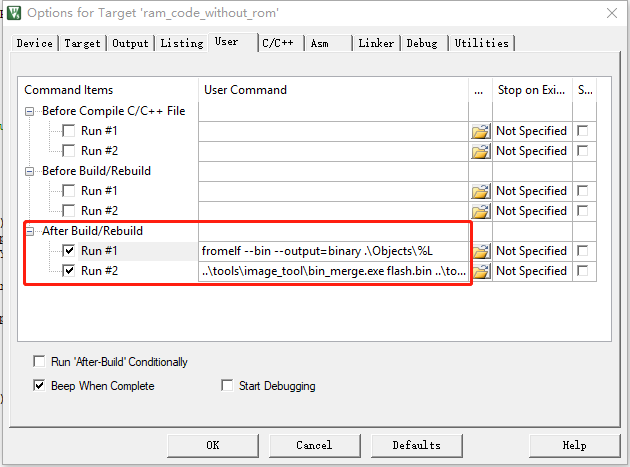
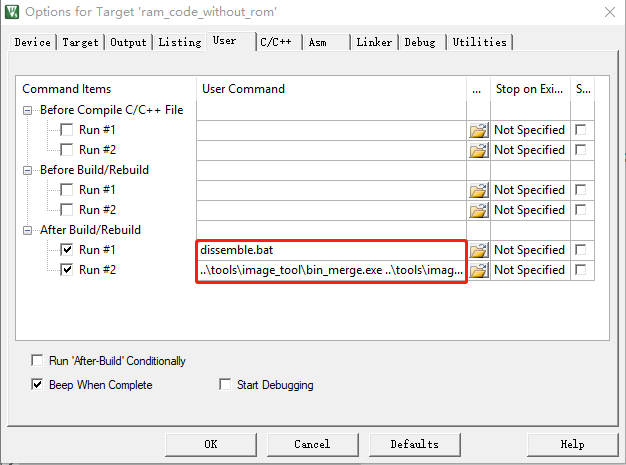
replace bx2400 with bluex in link_script_and_keil_sdk_cfg.rst

diff --git a/getting_started/link_script_and_keil_sdk_cfg.rst b/getting_started/link_script_and_keil_sdk_cfg.rst
@@ -1,7 +1,7 @@
 Link Script & Keil SDK Configuration
 ^^^^^^^^^^^^^^^^^^^^^^^^^^^^^^^^^^^^^^^
 
-在Keil下编译链接BX2400 SDK，需要熟悉Keil下的各项工程配置。
+在Keil下编译链接Apollo SDK，需要熟悉Keil下的各项工程配置。
 
 1.  链接脚本
 
@@ -13,7 +13,7 @@ Link Script & Keil SDK Configuration
 
     .. image:: link_script_and_keil_sdk_cfg_img2.png
 
-    ARM的链接脚本的主要构成是Load Section和Exec Section。考虑一个典型的Flash上运行软件的例子：IC从Flash启动，之后需要要把所有的数据和一部分代码搬移到RAM中（例如Flash驱动，中断向量表，任务调度函数等，没办法放在Flash中），此时IC启动后ARM默认的__main()需要知道代码搬移的起始地址和目的地址，这就是通过链接脚本指定的。起始地址就是Load Section，而目标地址就是Exec Section。 BX2400的链接脚本范例如下:
+    ARM的链接脚本的主要构成是Load Section和Exec Section。考虑一个典型的Flash上运行软件的例子：IC从Flash启动，之后需要要把所有的数据和一部分代码搬移到RAM中（例如Flash驱动，中断向量表，任务调度函数等，没办法放在Flash中），此时IC启动后ARM默认的__main()需要知道代码搬移的起始地址和目的地址，这就是通过链接脚本指定的。起始地址就是Load Section，而目标地址就是Exec Section。 Apollo的链接脚本范例如下:
 
     ..  code:: c
 
@@ -61,7 +61,7 @@ Link Script & Keil SDK Configuration
             }
         }
 
-    这里主要包括3个Load Section，每个Load Section又包含了数目不同的Exec Section。以第一个Load Section为例，LR_RAM1表示Load Section的名字，RAM_BASE表示Load Section的起始地址，ALIGN 0x80则表示起始地址必须是0x80对齐。ISR_VECTOR是第一个Exec Section的名字，+0表示起始地址相对之前的Load Section LR_RAM1的偏移是0，也就是说地址相同。*(RESET, +First)和*(jump_table_area)则表示该Exec Section的两个输入，第一个输入是在汇编里定义的段，具体参考源文件startup_bx2400.s，第二个输入是C源代码里定义的jump_table_area段。第二种很常用，其在C代码中的写法是：
+    这里主要包括3个Load Section，每个Load Section又包含了数目不同的Exec Section。以第一个Load Section为例，LR_RAM1表示Load Section的名字，RAM_BASE表示Load Section的起始地址，ALIGN 0x80则表示起始地址必须是0x80对齐。ISR_VECTOR是第一个Exec Section的名字，+0表示起始地址相对之前的Load Section LR_RAM1的偏移是0，也就是说地址相同。*(RESET, +First)和*(jump_table_area)则表示该Exec Section的两个输入，第一个输入是在汇编里定义的段，具体参考源文件startup_apollo_00.s，第二个输入是C源代码里定义的jump_table_area段。第二种很常用，其在C代码中的写法是：
 
     ..  code:: c
 
@@ -88,7 +88,7 @@ Link Script & Keil SDK Configuration
 
         .. image:: link_script_and_keil_sdk_cfg_img4.png
 
-        关于Group/Files内容，BX2400更新后与图片显示不同，具体以SDK内容为准。
+        关于Group/Files内容，Apollo更新后与图片显示不同，具体以SDK内容为准。
 
     #.  工程管理选项
 
@@ -96,19 +96,19 @@ Link Script & Keil SDK Configuration
 
             .. image:: link_script_and_keil_sdk_cfg_img5.png
 
-            BX2400内的MCU为Cortex-M0+。
+            Apollo内的MCU为Cortex-M0+。
 
         -   Target配置
 
             .. image:: link_script_and_keil_sdk_cfg_img6.png
 
-            Target里主要配置ROM和RAM的地址以及大小。关于RAM中的具体内容，请参考文档Memory Distribution. 另外，BX2400使用MicroLIB，因此相应的选项也需要选中。
+            Target里主要配置ROM和RAM的地址以及大小。关于RAM中的具体内容，请参考文档Memory Distribution. 另外，Apollo使用MicroLIB，因此相应的选项也需要选中。
 
         -   Output选项
 
             .. image:: link_script_and_keil_sdk_cfg_img7.png
 
-            Output选项里，主要配置输出的文件信息。BX2400里的配置，尽可能输出更多的信息方便调试。BX2400里不需要hex文件，用户如果需要可以选择生成。
+            Output选项里，主要配置输出的文件信息。Apollo里的配置，尽可能输出更多的信息方便调试。Apollo里不需要hex文件，用户如果需要可以选择生成。
 
         -   Listing选项
 
@@ -120,13 +120,13 @@ Link Script & Keil SDK Configuration
 
             .. image:: link_script_and_keil_sdk_cfg_img9.png
 
-            User选项里，主要配置了在生成可执行文件后，需要执行的自定义命令，这里主要有2个：#1是使用fromelf命令从axf文件中生成bin文件；#2是利用自定义的bin_merge.exe生成flash.bin文件。用户最终需要生成一个可以烧写入Flash里的bin文件，这个文件就是通过这里的After Build命令生成。
+            User选项里，主要配置了在生成可执行文件后，需要执行的自定义命令，这里主要有2个：#1是一个批处理文件，其内容包括用fromelf命令从axf文件中生成bin文件和反汇编asm文件；#2是利用自定义的bin_merge.exe生成flash.bin文件。用户最终需要生成一个可以烧写入Flash里的bin文件，这个文件就是通过这里的After Build命令生成。
 
         -   C/C++选项
 
             .. image:: link_script_and_keil_sdk_cfg_img10.png
 
-            C/C++选项里，最需要关注的是配置头文件路径。BX2400已经默认配置好需要的路径，用户如果增加了自定义的头文件目录，需要在这里添加到列表中，否则编译时会报错。其余的配置保持默认值即可。
+            C/C++选项里，最需要关注的是配置头文件路径。Apollo已经默认配置好需要的路径，用户如果增加了自定义的头文件目录，需要在这里添加到列表中，否则编译时会报错。其余的配置保持默认值即可。
 
         -   Asm选项
 
@@ -140,13 +140,13 @@ Link Script & Keil SDK Configuration
 
             关于链接脚本的具体内容，可以参考文档Link scripts/Keil SDK Config
 
-            BX2400包含ROM，因此在用户程序链接的时候，需要引用符号表，也就是rom_syms_armcc.txt，这个文件已经包含在工程目录中，用户一般不需要关心。
+            Apollo包含ROM，因此在用户程序链接的时候，需要引用符号表，也就是rom_syms_armcc.txt，这个文件已经包含在工程目录中，用户一般不需要关心。
 
         -   Debug选项
 
             .. image:: link_script_and_keil_sdk_cfg_img12.png
 
-            Debug选项里，左半边面板属于Simulator下的配置选项，用户不需要关心。右侧的选项中，需要注意的是初始化文件。BX2400 SDK里有两个ini文件：debug.ini和debug_flash.ini，分别代表软件代码直接在RAM中调试，和从Flash启动再到跳转到RAM中运行的选项。关于两种调试方式的选择，通常建议如下：
+            Debug选项里，左半边面板属于Simulator下的配置选项，用户不需要关心。右侧的选项中，需要注意的是初始化文件。Apollo SDK里有两个ini文件：debug.ini和debug_flash.ini，分别代表软件代码直接在RAM中调试，和从Flash启动再到跳转到RAM中运行的选项。关于两种调试方式的选择，通常建议如下：
 
             -   直接下载到RAM中调试：在用户开发前中期，BLE的主要功能未调试完成，不太关注Flash相关的操作时。此时配置初始化文件debug.ini
 
